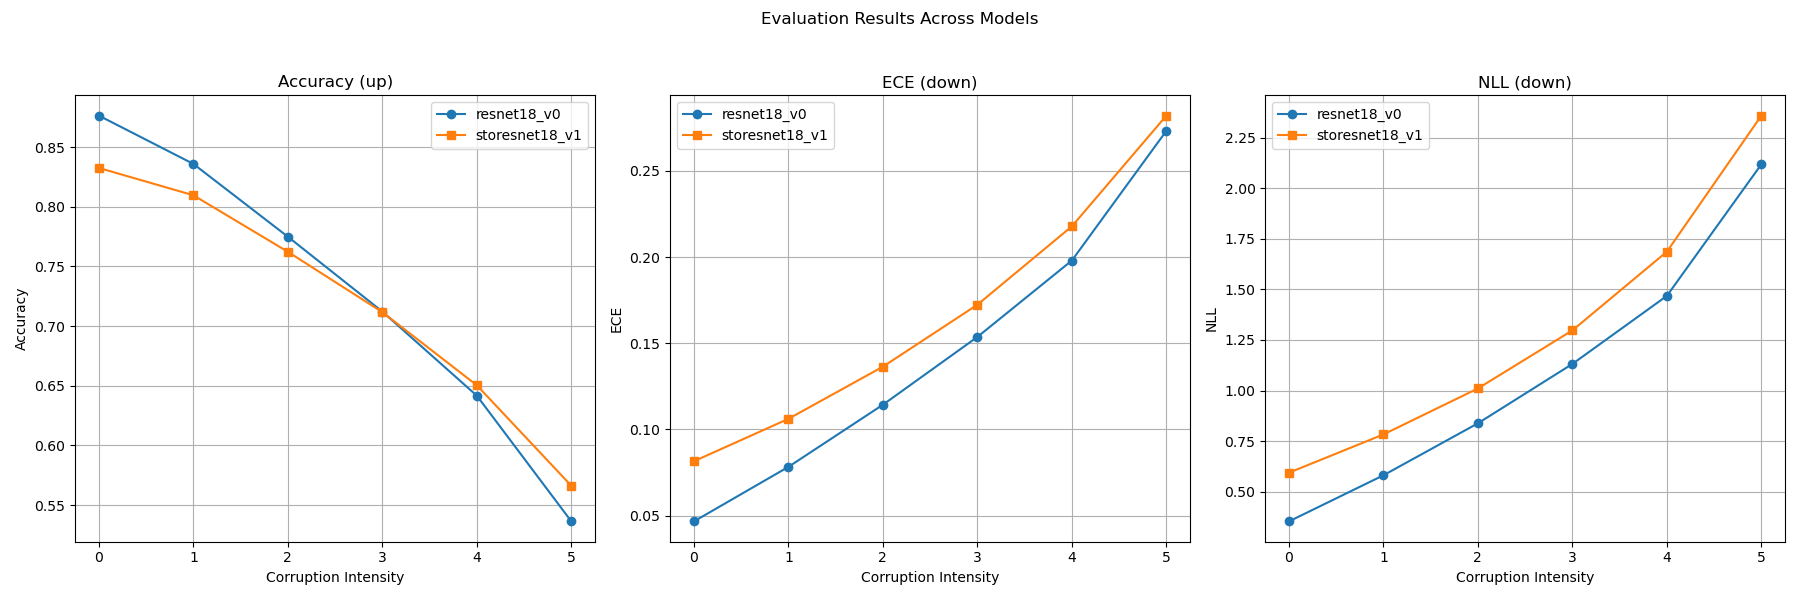
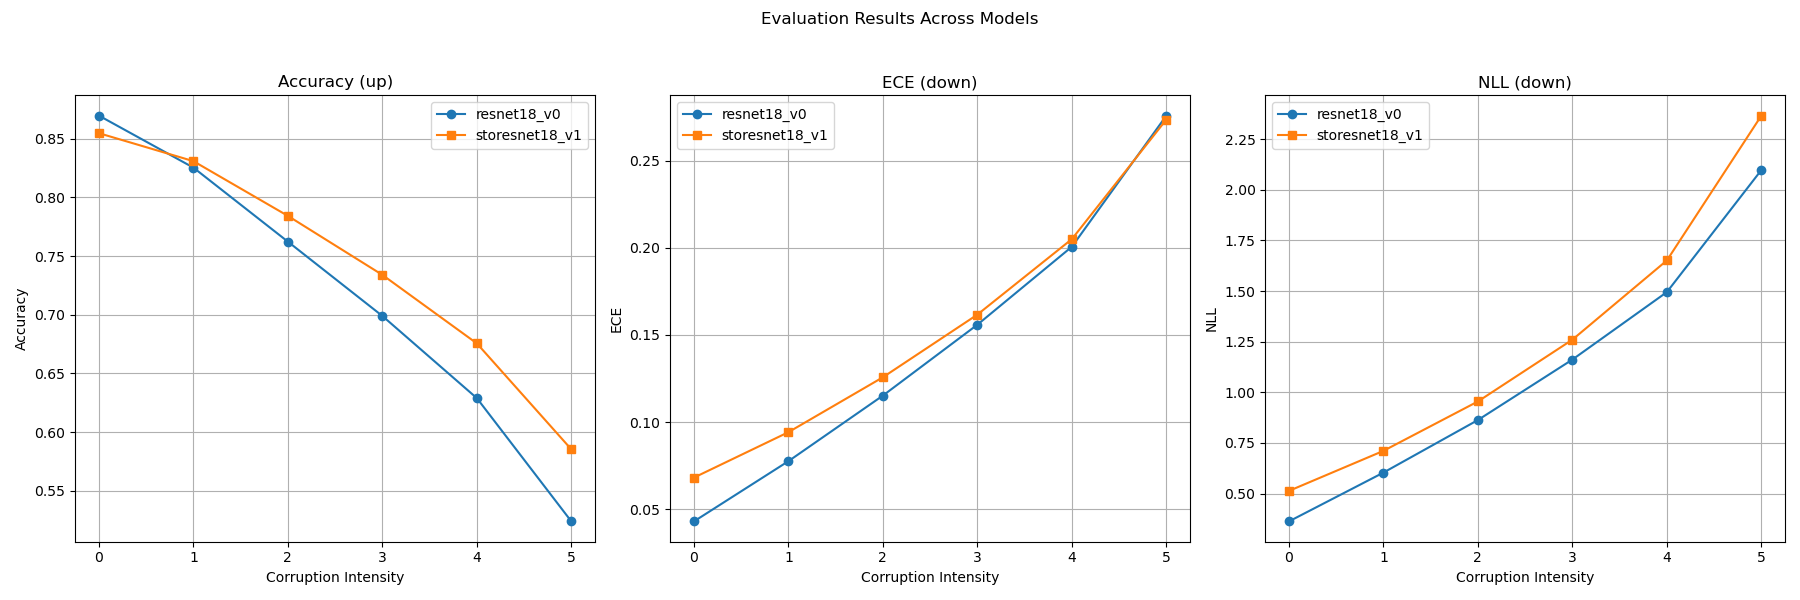
update optimizer

diff --git a/plot_feature_shift.py b/plot_feature_shift.py
@@ -7,7 +7,7 @@ from model import *
 CIFAR10_CLASSES = ['airplane', 'automobile', 'bird', 'cat', 'deer', 'dog', 'frog', 'horse', 'ship', 'truck']
 
 # Load the data and models
-ck_path = f'checkpoints/storesnet18/storesnet18_epoch200.pt'
+ck_path = f'checkpoints/storesnet18/storesnet18_epoch50.pt'
 data_dir = f'data/CIFAR10'
 dataloader = get_dataloader(data_dir=data_dir, dataset='CIFAR10', batch_size=1, train=False)
 img, label = next(iter(dataloader))
@@ -21,6 +21,28 @@ det_model = StoResNet18(stochastic=2)
 model_dict = torch.load(ck_path)
 bnn_model.load_state_dict(model_dict)
 det_model.load_state_dict(model_dict)
+
+# print(f'what is the current temperature: {bnn_model.T}')
+# # Assuming the linear layer with post_mean and post_std is named 'linear' in the model
+# post_mean = bnn_model.fc.post_mean
+# post_std = bnn_model.fc.post_std
+# import seaborn as sns
+# # Detach tensor from computation graph and convert to NumPy for easier handling
+# tensor_np = post_mean.detach().cpu().numpy()
+
+# # Flatten the tensor to create a 1D array of all the values
+# tensor_flat = tensor_np.flatten()
+
+# # Plotting the distribution
+# plt.figure(figsize=(10, 6))
+# sns.histplot(tensor_flat, bins=30, kde=True)
+# plt.title('Distribution of Tensor Values')
+# plt.xlabel('Value')
+# plt.ylabel('Frequency')
+# plt.show()
+# # Print post_mean and post_std
+# exit()
+
 bnn_model.eval()
 det_model.eval()
 bnn_features, det_features = {}, {}

diff --git a/model/storesnet.py b/model/storesnet.py
@@ -152,6 +152,7 @@ class StoResNet(StoModel):
         self.layer4 = self._make_layer(block, 512, layers[3], stride=2,
                                        dilate=replace_stride_with_dilation[2])
         self.avgpool = nn.AvgPool2d((4, 4))
+        self.T = torch.nn.Parameter(torch.ones(1) * 1.5, requires_grad=True)
         self.fc = StoLinear(512*block.expansion, num_classes, n_components=n_components, mode = "inout")
         
         for m in self.modules():
@@ -220,6 +221,7 @@ class StoResNet(StoModel):
         x = self.avgpool(x)
         x = torch.flatten(x, 1)
         x = self.fc(x, indices)
+        x = x/self.T
         x = F.log_softmax(x, dim=-1)
         x = x.view(-1, n_sample, x.size(1))
         return x

diff --git a/train_storesnet.py b/train_storesnet.py
@@ -33,7 +33,8 @@ def stotrain(model, dataset, log_dir, data_dir, n_classes, in_channel, ck_dir, n
                                             train=True, val=True,
                                             aug_type=aug_type)
 
-    optimizer = optim.Adam(model.parameters(), lr=lr, weight_decay=weight_decay)
+    # optimizer = optim.Adam(model.parameters(), lr=lr, weight_decay=weight_decay)
+    optimizer = optim.SGD(model.parameters(), lr=lr, momentum=0.0, weight_decay=weight_decay, nesterov=False)
     scheduler = optim.lr_scheduler.LambdaLR(optimizer, lr_lambda=lambda epoch: lr_schedule(epoch, n_epoch, milestones=milestones, final_factor=final_factor))
 
     entropy_weight = entropy_weight

diff --git a/model/layers.py b/model/layers.py
@@ -141,8 +141,8 @@ class StoLinear(nn.Linear, StoLayer):
                  n_components=4, 
                  prior_mean=0.5, 
                  prior_std=0.30, 
-                 post_mean_init=(0.50, 0.25), 
-                 post_std_init=(0.25, 0.1), 
+                 post_mean_init=(0.40, 0.25), 
+                 post_std_init=(0.20, 0.1), 
                  mode = 'inout',
                  ):
         super().__init__(in_features, out_features, bias)

diff --git a/data_vis.py b/data_vis.py
@@ -66,7 +66,7 @@ def visualize_all_corruptions(cifar10_testset, corruption_types, severity_levels
     # Plot the original image separately
     plt.figure(figsize=(4, 4))
     plt.imshow(img_np)
-    plt.title(f"Original Image: {cifar10_labels[label]}")
+    # plt.title(f"Original Image: {cifar10_labels[label]}")
     plt.axis('off')
     plt.show()
 

diff --git a/data.py b/data.py
@@ -10,7 +10,7 @@ def get_dataloader(data_dir,
                    aug_type=None,
                    train=True,
                    val=False,
-                   val_ratio=0.2,
+                   val_ratio=0.1,
                    train_unet_ratio=None,
                    intensity=0,
                    corrupt_types=None):
